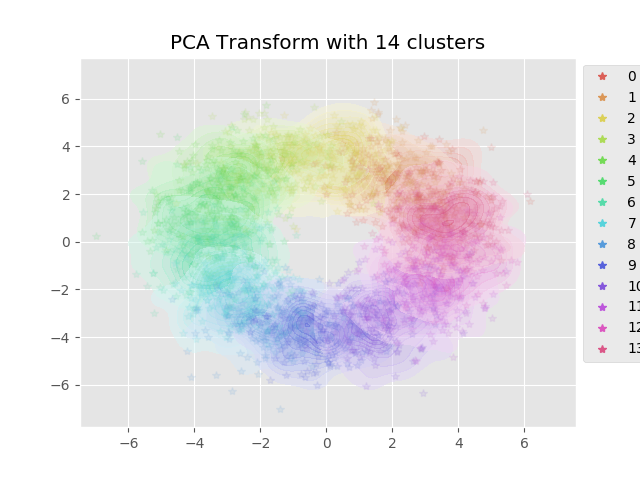
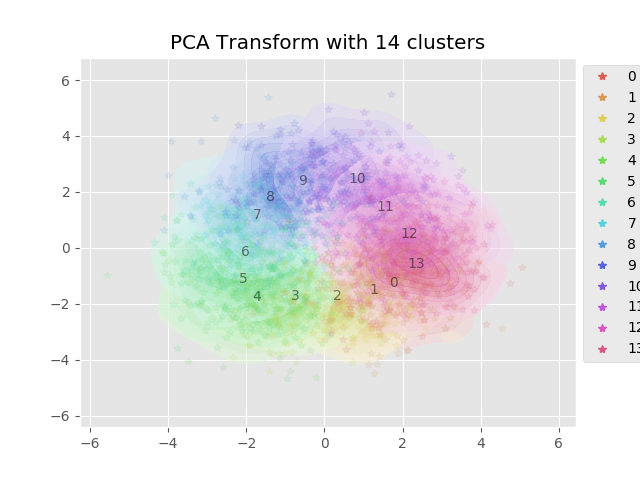
Add perplexity=10, 100, and multiscale to example

diff --git a/example/example_viz_parametric_tSNE.py b/example/example_viz_parametric_tSNE.py
@@ -2,8 +2,6 @@
 from __future__ import division  # Python 2 users only
 from __future__ import print_function
 
-from parametric_tSNE.utils import get_multiscale_perplexities
-
 __doc__= """ Example usage of parametric_tSNE. 
 Generate some simple data in high (14) dimension, train a model, 
 and run additional generated data through the trained model"""
@@ -24,6 +22,7 @@ _par_dir = os.path.abspath(os.path.join(_cur_dir, os.pardir))
 sys.path.append(_cur_dir)
 sys.path.append(_par_dir)
 from parametric_tSNE import Parametric_tSNE
+from parametric_tSNE.utils import get_multiscale_perplexities
 
 has_sklearn = False
 try:
@@ -36,13 +35,14 @@ except Exception as ex:
 
 
 def _gen_test_data(num_clusters, num_samps):
-    cluster_centers = 5.0*np.identity(num_clusters)
+    cluster_centers = 3.0*np.identity(num_clusters)
     perm_vec = np.array([x % num_clusters for x in range(1, num_clusters+1)])
     cluster_centers += cluster_centers[perm_vec, :]
+    
     pick_rows = np.arange(0, num_samps) % num_clusters
     
     test_data = cluster_centers[pick_rows, :]
-    test_data += np.random.normal(loc=0.0, scale=1.0, size=test_data.shape)
+    test_data += np.random.normal(loc=1.0, scale=1.0, size=test_data.shape)
     
     return test_data, pick_rows
 
@@ -63,6 +63,9 @@ def _plot_kde(output_res, pick_rows, color_palette, alpha=0.5):
         cur_cmap = sns.light_palette(color_palette[ci], as_cmap=True)
         sns.kdeplot(output_res[cur_plot_rows, 0], output_res[cur_plot_rows, 1], cmap=cur_cmap, shade=True, alpha=alpha,
             shade_lowest=False)
+        centroid = output_res[cur_plot_rows, :].mean(axis=0)
+        plt.annotate('%s' % ci, xy=centroid, xycoords='data', alpha=0.5,
+                     horizontalalignment='center', verticalalignment='center')
     
 
 if __name__ == "__main__":
@@ -98,14 +101,16 @@ if __name__ == "__main__":
     np.random.seed(86131894)
     test_data, test_pick_rows = _gen_test_data(num_clusters, num_samps)
 
-    transformer_list = [{'label': 'tSNE (Fixed Perp.)', 'tag': 'tSNE_perp30', 'perplexity': 30, 'transformer': None},
-                        {'label': 'Multiscale tSNE', 'tag': 'tSNE_multiscale', 'perplexity': None, 'transformer': None}]
+    transformer_list = [{'label': 'Multiscale tSNE', 'tag': 'tSNE_multiscale', 'perplexity': None, 'transformer': None},
+                        {'label': 'tSNE (Perplexity=10)', 'tag': 'tSNE_perp10', 'perplexity': 10, 'transformer': None},
+                        {'label': 'tSNE (Perplexity=100)', 'tag': 'tSNE_perp100', 'perplexity': 100, 'transformer': None}]
     
     for tlist in transformer_list:
         perplexity = tlist['perplexity']
         if perplexity is None:
             perplexity = get_multiscale_perplexities(num_samps)
-    
+            print('Using multiple perplexities: %s' % (','.join(map(str, perplexity))))
+            
         ptSNE = Parametric_tSNE(train_data.shape[1], num_outputs, perplexity,
                             alpha=alpha_, do_pretrain=do_pretrain, batch_size=batch_size,
                             seed=54321)
@@ -119,6 +124,8 @@ if __name__ == "__main__":
         else:
             print('{time}: Loading from {model_path}'.format(time=datetime.datetime.now(), model_path=model_path))
             ptSNE.restore_model(model_path)
+
+        tlist['transformer'] = ptSNE
     
 
     if plot_pca:
@@ -146,7 +153,7 @@ if __name__ == "__main__":
         for lh in leg.legendHandles: 
             lh._legmarker.set_alpha(1.0)
 
-        plt.title('{label} Transform with {num_clusters:d} clusters'.format(tag=tag, num_clusters=num_clusters))
+        plt.title('{label} Transform with {num_clusters:d} clusters'.format(label=label, num_clusters=num_clusters))
 
         plt.savefig('example_viz_{tag}.png'.format(tag=tag))
     plt.show()

diff --git a/README.md b/README.md
@@ -1,5 +1,5 @@
 # Overview
-This is a python package implementing parametric t-SNE. We train a neural-network to learn a mapping by minimizing the Kullback-Leibler divergence between the Gaussian distance metric in the high-dimensional space and the Students-t distributed distance metric in the low-dimensional space. By default we use similar archictecture<sup>1</sup> as van der Maaten 2009, which is a dense neural network with layers: 
+This is a python package implementing parametric t-SNE. We train a neural-network to learn a mapping by minimizing the Kullback-Leibler divergence between the Gaussian distance metric in the high-dimensional space and the Students-t distributed distance metric in the low-dimensional space. By default we use similar archictecture<sup>1</sup> as van der Maaten 2009, which is a dense neural network with layers:
 [input dimension], 500, 500, 2000, [output dimension]
 
 Simple example usage may be:
@@ -7,14 +7,14 @@ Simple example usage may be:
 ```python
 train_data = load_training_data_somehow()
 high_dims = train_data.shape[1]
-num_outputs = 2 
+num_outputs = 2
 perplexity = 30
 ptSNE = Parametric_tSNE(high_dims, num_outputs, perplexity)
 output_res = ptSNE.transform(train_data)
 ```
 
-`output_res` will be `N x num_outputs`, the transformation of each point. 
-At thes point, `ptSNE` will be a trained model, so we can quickly transform other data:
+`output_res` will be `N x num_outputs`, the transformation of each point.
+At this point, `ptSNE` will be a trained model, so we can quickly transform other data:
 
 ```python
 test_data = load_test_data_somehow()
@@ -34,15 +34,19 @@ layers.Dense(num_outputs, activation='relu', kernel_initializer='glorot_uniform'
 ptSNE = Parametric_tSNE(high_dims, num_outputs, perplexity, all_layers=all_layers)
 ```
 
+The "perplexity" parameter can also be a list (e.g. [10,20,30,50,100,200]), in which case the probability matrix for each perplexity value will be averaged together for the final metric. This is an ad-hoc method inspired by Verleysen et al 2014. Certain initialization and training steps will be linear in the number of perplexity values used, though it shouldn't affect the speed of the final trained model.
+
 # Footnotes
 
-1. van der Maaten 2009 used a ReLu as the output layer. The default here is a linear output layer. ReLu would occasionally produce poor results in the form of all zeroes in one dimension. 
+1. van der Maaten 2009 used a ReLu as the output layer. The default here is a linear output layer. ReLu would occasionally produce poor results in the form of all zeroes in one dimension.
 
 # References
 
 van der Maaten, L. (2009). Learning a parametric embedding by preserving local structure. RBM, 500(500), 26.
 
 L.J.P. van der Maaten and G.E. Hinton. Visualizing High-Dimensional Data Using t-SNE. Journal of Machine Learning Research 9(Nov):2579-2605, 2008
+
+John A. Lee, , Diego H. Peluffo-Ordonez, and Michel Verleysen. Multiscale stochastic neighbor embedding: Towards parameter-free dimensionality reduction. ESANN 2014 proceedings, European Symposium on Artificial Neural Networks, Computational Intelligence and Machine Learning. Bruges (Belgium), 23-25 April 2014, ISBN 978-287419095-7. https://pdfs.semanticscholar.org/1e4b/21aca0590d4572a99fa3df3edd453f2d8a5a.pdf
 
 MATLAB Parametric tSNE implementation: https://lvdmaaten.github.io/tsne/code/ptsne.tar.gz
 Available at https://lvdmaaten.github.io/tsne/

diff --git a/example/README.md b/example/README.md
@@ -1,14 +1,19 @@
 This is an example script demonstrating usage of the parametric tSNE method.
-First, training data is generated for 14 clusters in 14 dimensions. We use 2000 training points and 2000 testing points.
+First, training data is generated for 14 clusters in 14 dimensions. We use 2000 training points and 2000 testing points. 
 The clusters are well-separated for simplicity. The model is saved in h5 format using Keras.
-The results for a 2-D tSNE are visualized below, as well as 2-component PCA for comparison. 
+The results for a 2-D tSNE are visualized below for several perplexity values, multiscale, as well as 2-component PCA for comparison.
 The training data is plotted as contours, the test data as individual points.
+Each cluster has 2000/14 = 142 points, so perplexity = 100 is closest to "correct".
 
-![tSNE](example_viz_tSNE.png "tSNE")
+![tSNE_perp10](example_viz_tSNE_perp10.png "tSNE (Perplexity 10)")
+
+![tSNE_perp10](example_viz_tSNE_perp100.png "tSNE (Perplexity 100)")
+
+![tSNE_multiscale](example_viz_tSNE_multiscale.png "tSNE (Multiscale)")
 
 ![PCA](example_viz_PCA.png "PCA")
 
 ## Requirements
-matplotlib  
-seaborn  
+matplotlib
+seaborn
 scikit-learn (PCA only)
